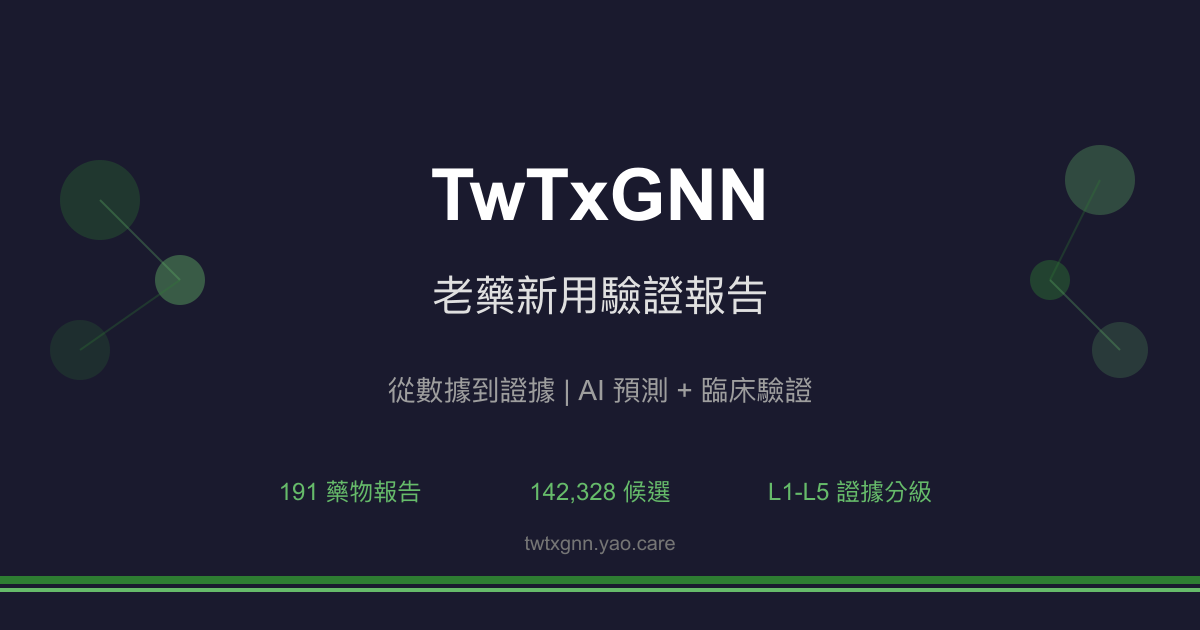
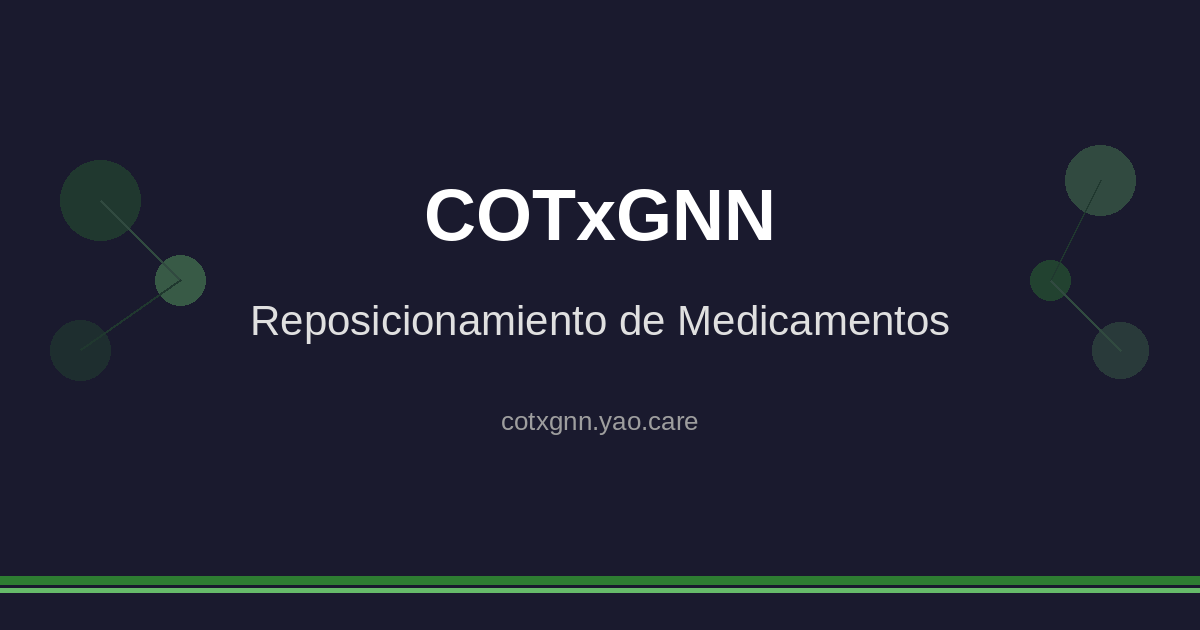
fix: 移除照抄 TwTxGNN 的內容（og 圖、分享按鈕）
- og-default.png／svg：原檔是 TwTxGNN 的圖（TwTxGNN、191 藥物報告、142,328 候選、twtxgnn.yao.care）。
  改由母 repo .claude/gen_og_image.py 產生本站圖：只放站名、網域、本站語言的一行副標（取自 _config.yml title），不放數字。
- assets/images/README.md：設計要求裡的「TwTxGNN」與標語改成本站實際內容，註明產生方式。
- _includes/social-share.html：X hashtag 與 mailto 主旨的 TwTxGNN → COTxGNN；推文與郵件內文原為中文「老藥新用驗證報告」，按鈕文字原為英文，改成本站語言。（此 include 目前沒有頁面引用，先修正以免日後啟用時帶出 Tw 字樣。）

Claude-Session: https://claude.ai/code/session_013aGXmRzC9hmsD5XtZ9FusM

diff --git a/docs/_includes/social-share.html b/docs/_includes/social-share.html
@@ -1,14 +1,14 @@
-<!-- 學術分享按鈕 -->
+<!-- Share buttons -->
 <div class="social-share" style="margin: 2rem 0; padding: 1.25rem; background: #f8f9fa; border-radius: 8px; border: 1px solid #e0e0e0;">
-  <strong style="display: block; margin-bottom: 0.75rem; color: #333;">Share this report:</strong>
+  <strong style="display: block; margin-bottom: 0.75rem; color: #333;">Compartir este informe:</strong>
   <div style="display: flex; gap: 0.5rem; flex-wrap: wrap;">
     <!-- Twitter/X -->
-    <a href="https://twitter.com/intent/tweet?text={{ page.title | url_encode }}%20%E8%80%81%E8%97%A5%E6%96%B0%E7%94%A8%E9%A9%97%E8%AD%89%E5%A0%B1%E5%91%8A&url={{ page.url | absolute_url | url_encode }}&hashtags=DrugRepurposing,TwTxGNN"
+    <a href="https://twitter.com/intent/tweet?text={{ page.title | url_encode }}%20Informe%20de%20reposicionamiento%20de%20medicamentos&url={{ page.url | absolute_url | url_encode }}&hashtags=DrugRepurposing,COTxGNN"
        target="_blank" rel="noopener noreferrer"
        style="display: inline-flex; align-items: center; gap: 0.375rem; padding: 0.5rem 1rem; background: #000; color: white; text-decoration: none; border-radius: 6px; font-size: 0.9rem; font-weight: 500; transition: opacity 0.2s;"
        onmouseover="this.style.opacity='0.8'" onmouseout="this.style.opacity='1'">
       <svg width="16" height="16" fill="currentColor" viewBox="0 0 24 24"><path d="M18.244 2.25h3.308l-7.227 8.26 8.502 11.24H16.17l-5.214-6.817L4.99 21.75H1.68l7.73-8.835L1.254 2.25H8.08l4.713 6.231zm-1.161 17.52h1.833L7.084 4.126H5.117z"/></svg>
-      Share on X
+      Compartir en X
     </a>
 
     <!-- LinkedIn -->
@@ -20,16 +20,16 @@
       LinkedIn
     </a>
 
-    <!-- 複製連結 -->
+    <!-- Copy link -->
     <button onclick="copyReportLink(this)"
             style="display: inline-flex; align-items: center; gap: 0.375rem; padding: 0.5rem 1rem; background: #6c757d; color: white; border: none; border-radius: 6px; cursor: pointer; font-size: 0.9rem; font-weight: 500; transition: all 0.2s;"
             onmouseover="this.style.background='#5a6268'" onmouseout="this.style.background='#6c757d'">
       <svg width="16" height="16" fill="currentColor" viewBox="0 0 24 24"><path d="M16 1H4c-1.1 0-2 .9-2 2v14h2V3h12V1zm3 4H8c-1.1 0-2 .9-2 2v14c0 1.1.9 2 2 2h11c1.1 0 2-.9 2-2V7c0-1.1-.9-2-2-2zm0 16H8V7h11v14z"/></svg>
-      <span>Copy link</span>
+      <span>Copiar enlace</span>
     </button>
 
     <!-- Email -->
-    <a href="mailto:?subject={{ page.title | url_encode }}%20-%20TwTxGNN&body=%E6%8E%A8%E8%96%A6%E9%80%99%E4%BB%BD%E8%80%81%E8%97%A5%E6%96%B0%E7%94%A8%E9%A9%97%E8%AD%89%E5%A0%B1%E5%91%8A%EF%BC%9A%0A%0A{{ page.url | absolute_url | url_encode }}"
+    <a href="mailto:?subject={{ page.title | url_encode }}%20-%20COTxGNN&body=Te%20recomiendo%20este%20informe%20de%20reposicionamiento%20de%20medicamentos%3A%0A%0A{{ page.url | absolute_url | url_encode }}"
        style="display: inline-flex; align-items: center; gap: 0.375rem; padding: 0.5rem 1rem; background: #EA4335; color: white; text-decoration: none; border-radius: 6px; font-size: 0.9rem; font-weight: 500; transition: opacity 0.2s;"
        onmouseover="this.style.opacity='0.8'" onmouseout="this.style.opacity='1'">
       <svg width="16" height="16" fill="currentColor" viewBox="0 0 24 24"><path d="M20 4H4c-1.1 0-1.99.9-1.99 2L2 18c0 1.1.9 2 2 2h16c1.1 0 2-.9 2-2V6c0-1.1-.9-2-2-2zm0 4l-8 5-8-5V6l8 5 8-5v2z"/></svg>
@@ -44,7 +44,7 @@ function copyReportLink(btn) {
   navigator.clipboard.writeText(url).then(() => {
     const span = btn.querySelector('span');
     const originalText = span.textContent;
-    span.textContent = 'Copied!';
+    span.textContent = '¡Copiado!';
     btn.style.background = '#28a745';
     setTimeout(() => {
       span.textContent = originalText;

diff --git a/docs/assets/images/README.md b/docs/assets/images/README.md
@@ -15,11 +15,15 @@ nav_exclude: true
 
 ### 設計要求
 
-1. 包含網站名稱「TwTxGNN」
-2. 包含標語「老藥新用，從數據到證據」
-3. 簡潔、專業風格
-4. 背景純色或簡單圖案
+1. 包含網站名稱「COTxGNN」與網域
+2. 包含該站語言的一行副標（取自 _config.yml 的 title）
+3. 不放藥物數、候選數等數字（會過期）
+4. 簡潔、專業風格
 5. 適合在社群媒體預覽顯示
+
+### 產生方式
+
+由 TxGNN 母 repo 的 `.claude/gen_og_image.py` 產生（同時輸出 og-default.svg）。
 
 ### 使用位置
 
